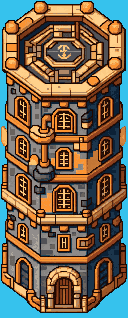
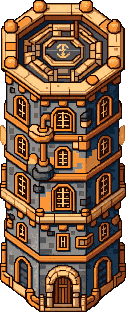
Cut the cyan background off the battle tower — and nothing else
The tower shipped fully opaque on a solid cyan field (54,194,237): zero
transparent pixels. The single-call redraw returned it on blue rather than
white, and key_white only accepts a PALE border as background, so it rejected
the colour and cut nothing. That is the blue Raheem has been looking at.

--bg names a background colour explicitly for cases the pale test cannot see.
The pale test still guards the automatic path, where it is what stops the side
wall's own dark outline being mistaken for background. 5,287px keyed, 126x312,
zero cyan remaining.

CourtyardV3.scene and .js are UNTOUCHED. The scene references the texture by
key, so replacing the PNG is enough — no scene edit was needed and none was
made. Raheem is placing walls in the Editor and my last change round-tripped the
whole .scene through JSON, which reordered keys on objects he had already
positioned. Standing rule now: surgical edits to the single named object only,
and prefer changing the PNG a key already points at.

No colour work in this commit. Per Raheem, colour matching stops being mine —
the pieces become real PixelLab objects once locked, and he recolours there.

diff --git a/card-engine/scripts/bg-harness/lib/key_white.py b/card-engine/scripts/bg-harness/lib/key_white.py
@@ -23,7 +23,7 @@ import numpy as np
 from PIL import Image, ImageDraw
 
 
-def key(path, dst, shave=1, white=200, fill_enclosed=300, tolerance=14, bleed_pale=200):
+def key(path, dst, shave=1, white=200, fill_enclosed=300, tolerance=14, bleed_pale=200, bg_rgb=None):
     im = Image.open(path).convert("RGBA")
     if shave:
         im = im.crop((shave, shave, im.width - shave, im.height - shave))
@@ -41,8 +41,14 @@ def key(path, dst, shave=1, white=200, fill_enclosed=300, tolerance=14, bleed_pa
     # correctly finds nothing on the side wall.
     border = np.concatenate([a[0, :, :3], a[-1, :, :3], a[:, 0, :3], a[:, -1, :3]])
     vals, counts = np.unique(border, axis=0, return_counts=True)
-    bgc = vals[np.argmax(counts)]
-    if int(bgc.min()) < white:
+    bgc = vals[np.argmax(counts)] if bg_rgb is None else np.array(bg_rgb, dtype=vals.dtype)
+    # PixelLab does not always return a pale background. The battle tower came
+    # back on solid cyan (54,194,237), which the "must be pale" gate rejected, so
+    # nothing was keyed and the tower shipped fully opaque on a blue field.
+    # --bg names the colour explicitly for those cases; the pale test still
+    # guards the automatic path, where it stops the side wall's own dark outline
+    # being mistaken for background.
+    if bg_rgb is None and int(bgc.min()) < white:
         print(f"    border is {tuple(int(x) for x in bgc)} — not a pale background, keying nothing")
         near_white = np.zeros(a.shape[:2], np.uint8)
     else:
@@ -133,6 +139,7 @@ def main():
     ap.add_argument("--white", type=int, default=200,
                     help="a border colour must be at least this pale to count as background at all")
     ap.add_argument("--tolerance", type=int, default=14, help="how far from the background colour still keys")
+    ap.add_argument("--bg", help="explicit background colour R,G,B when it is not pale")
     ap.add_argument("--bleed-pale", type=int, default=200,
                     help="after keying, absorb pixels at least this pale that touch the keyed region; 0 disables")
     ap.add_argument("--fill-enclosed", type=int, default=300,
@@ -151,7 +158,8 @@ def main():
     for f in files:
         s = os.path.join(a.src, f)
         d = os.path.join(a.dst, f) if os.path.isdir(a.dst) else a.dst
-        size, cut = key(s, d, a.shave, a.white, a.fill_enclosed, a.tolerance, a.bleed_pale)
+        bg_rgb = tuple(int(v) for v in a.bg.split(',')) if a.bg else None
+        size, cut = key(s, d, a.shave, a.white, a.fill_enclosed, a.tolerance, a.bleed_pale, bg_rgb)
         print(f"  {f:20s} keyed {cut:7,d} px  ->  {size[0]}x{size[1]}")
 
 
